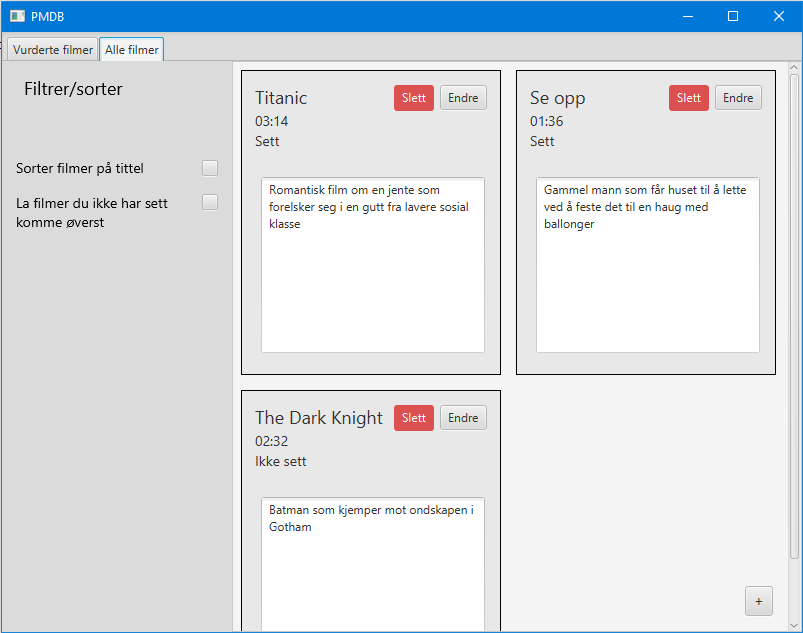
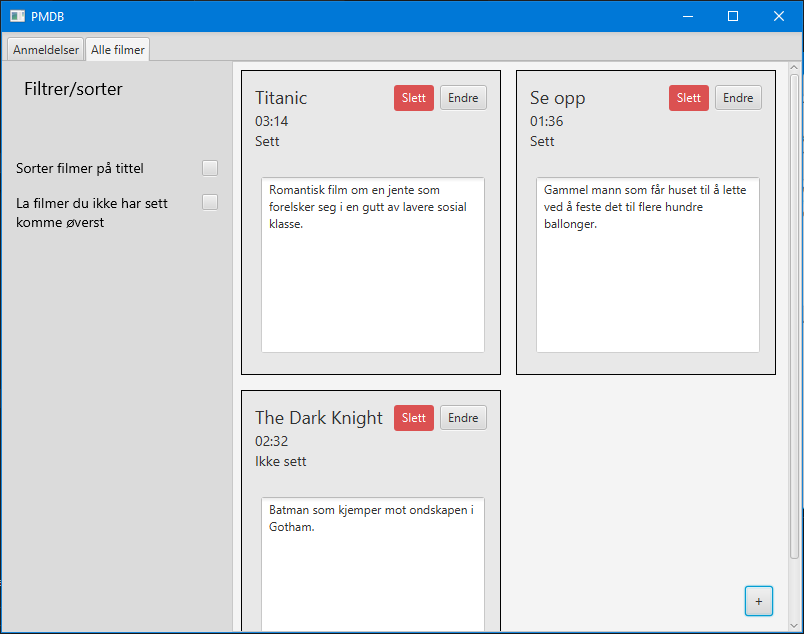
updated readme and release2 with images

diff --git a/pmdb/README.md b/pmdb/README.md
@@ -51,62 +51,54 @@ cd core
 mvn test
 ```
 
-## Prototype
-Under er det lagt ved bilder av prototypen:
+## Appen
 
-![Bildet ble ikke vist](images/allmovies.png)
-
+Under er flyten i appen beskrevet, med bilder og tilhørende tekst.
 
 Bilde 1:
 
-Dette er bildet en bruker får opp når personen åpner appen. Øverst ser man faner der man kan enten velge å se "Min liste", "Vurderte filmer" eller "Alle filmer". Hvis man trykker på "Vurderte filmer" kommer man til en side der man kan se filmene som man har sett og er vurdert. Trykker man på "Min liste" kommer man til siden som viser filmene man har lagt til, men ikke vurderte enda. Hvis man trykker "Alle filmer" kommer man til siden der man ser alle filmene, både de som er vurderte, og de som er i min liste.
+![Bildet ble ikke vist](images/allmovies.png)
 
-På hver side har man muligheten for å bestemme hvilke filmer man vil se basert på en sjanger. 
-
-Trykker man på "pluss (+)"-knappen nederst til høyre i bildet har man mulighet for å legge til en film i "Min liste" (se bilde 2).
-
-Trykker man på "Endre"-knappen på en film vil man få opp et bilde som gir brukeren muligheten for å endre på filmen (se bilde 2).
-
+Bilde 1 viser hvordan appen ser ut når den blir åpnet. Der kan man legge til filmer som vist på figuren. Man legger til en film ved å trykke på *(+) - knappen* nederst til høyre i appen. Da vil man få opp et bilde (se bilde 2 under) som gir muligheten for å opprette en film.
 
 Bilde 2:
 
-Bildet viser et utklipp av en enkelt film. Her har man mulighet for å endre på filmen. Man skal ha mulighet for å endre på tittelen, beskrivelsen av filmen, lengden på filmen, og om filmen er sett. Trykker man "Bekreft" vil endringene bli lagret.
+![Bildet ble ikke vist](images/movieImage.png)
 
-Hvis man trykker på "pluss (+)"-knappen på startskjermen (se bilde 1), vil man også kommet til skjermbildet bilde 2, men da er skjermbildet tomt. Man har muligheten for å lage et nytt filmobjekt, som vil bli lagt til i "Min liste" når man har fylt ut og trykket "Bekreft".
+Når man oppretter en film må man fylle ut feltene:
+- Tittel
+- Varighet
+- Om filmen er sett
+- Sammendrag av filmen
+
+Man har mulighet til å både *endre* på en eksisterende film, og *slette* en eksisterende film. 
+
+Hvis man trykker på *endre-knappen* kommer man til et bilde som er likt som når man trykker på *(+)-knappen* bare at feltene er fylt inn, og man har mulighet for å endre på de og lagre endringene.
+
+På venstre har man mulighet til å trykke på checkboxer som sorterer filmene basert på:
+- Tittel
+- At filmer som du ikke har sett skal komme først
+
+Disse sorteringene kan kombineres, slik at man både kan sortere på tittel og på om filmen er sett. Vi har gjort det slik at sorteringen på om filmen er sett trumfer sorteringen basert på tittel.
 
 
-Her vises hovedlogikken i plant uml
-```plantuml
-@startuml
-allow_mixing
-component core {
-    package pmdb.core{
-        package moviecomparators
-        interface IMovie
-        class Movie
-        Movie ..> IMovie
-        interface IReview
-        class Review
-        Review ..> IReview
-        class MovieList
-        MovieList --> "*" IMovie : movieList
-    }
-    package json{
-        package moviepersistance
-    }
-}
-component jackson{
+Bilde 3:
 
-}
-json ..> jackson
-component ui {
+![Bildet ble ikke vist](images/reviewedMovies.png)
 
-    }
-component javafx{
-    component fxml{
+Bilde 3 viser hvordan siden for *Anmeldelser* ser ut. Her har man muligheten til å anmelde en eksisterende film, som ligger i *Alle filmer* (siden du startet på). Man lager en anmeldelse ved å trykke på *(+) - knappen* nederst til høyre i bildet. Da vil man få opp bildet under.
 
-        }
-    }
-ui ..> javafx
-ui ..> fxml
-@enduml
+![Bildet ble ikke vist](images/reviewImage.png)
+
+Når man anmelder en film må man fylle ut feltene:
+- Film (en checkbox av filmobjekter man kan anmelde)
+- Når filmen er sett
+- Din rangering av filmen
+- En kommentar til filmen.
+
+Man har mulighet for å *endre* og *slette* en anmeldelse slik som man har med en film.
+
+
+### Arkitektur:
+
+![Bildet ble ikke vist](images/packageStructure.png)

diff --git a/docs/release2.md b/docs/release2.md
@@ -6,76 +6,19 @@ I release 1 var tanken at vi skulle ha både ha en klasse for *liste med anmelde
 
 Det var et *én-til-én* forhold mellom `Movie` og `Review`.    `ReviewList` hadde *én-til-mange* forhold med `Review`, det samme hadde `MovieList` med `Movie`. Se uml-diagram under. Vi benyttet oss av denne strukturen, fordi vi tenkte at det ville gjøre lagringen lettere. Tanken var at vi skulle ha to filer, en for lagring av `ReviewList` og en for lagring av `MovieList`. Dette matchet også hvordan ui-et ville være da vi skulle ha én fane for å vise *listen med anmeldelser* (`ReviewList`) og én for *listen med filmer* (`MovieList`).
 
-```plantuml
-@startuml
-allow_mixing
-class Movie
-class Review
-class ReviewList
-class MovieList
-Movie <--> "1:1" Review : review
-' Review <--> "1" Movie : movie
-ReviewList --> "*" Review : reviews
-MovieList --> "*" Movie : movies
-@enduml
-```
+![Bildet ble ikke vist](../pmdb/images/classdiagramRelease1.png)
+
 Slik så klassestrukturen ut i release 1
 
 ### Strukturen i release 2
 Vi fant ut at denne klassestrukturen var ugunstig, fordi vi så at det var overflødig å både ha `ReviewList` og `MovieList`. Vi tenkte også at det skulle være mulig for en bruker å lage flere *anmeldelser* til én *film*. Derfor endret vi klasseforholdet til at `Movie` hadde *en-til-mange* forhold med `Review`. Dermed kunne vi droppe `ReviewList` og istedenfor la `MovieList` inneholde mange `Movies` som igjen inneholder mange `Reviews`. Da kunne vi også lagre alt i en fil. Hvis vi vil nå ha tak i en `Review` trenger vi bare å finne den tilhørende filmen.
 
-```plantuml
-@startuml
-allow_mixing
-class MovieList
-class Movie
-class Review
+![Bildet ble ikke vist](../pmdb/images/classdiagramRelease2.png)
 
-MovieList --> "*" Movie : movies
-Movie --> "*" Review : reviews
-
-@enduml
-```
 Slik ser klassestrukturen ut nå.
 
-```plantuml
-@startuml
-allow_mixing
-component core {
-    package pmdb.core{
-        package moviecomparators
-        interface IMovie
-        class Movie
-        Movie ..> IMovie
-        interface IReview
-        class Review
-        Review ..> IReview
-        class MovieList
-        MovieList --> "*" IMovie : movieList
-    }
-    package json{
-        package moviepersistance
-    }
-}
-component jackson{
-
-}
-json ..> jackson
-component ui {
-
-    }
-component javafx{
-    component fxml{
-
-        }
-    }
-ui ..> javafx
-ui ..> fxml
-@enduml
-```
 ## Endringer i JSON-lagringen
 I release 1 hadde vi en mer automatisk lagring. Vi sendte inn hele javaobjektet vi ville lagre, og lot JSON gjøre jobben for oss. Vi fant ut at dette var en ugunstig måte å gjøre det på da vi ikke hadde noe kontroll over hvordan objektet ble lagret. Dette gjorde det også vanskelig å teste lagring. Vi byttet dermed til en mer manuell lagring der vi selv bestemte hva som skulle lagres, og hvilket JSON-objekt det skulle bli lagret som. Vi fikk dermed større kontroll over hvordan JSON-filen ville se ut.
 
 ## Dokumentmetafor
 Vi har valgt å bruke dokumentmetafor når vi lagrer. Når brukeren skal opprette et *film-objekt* må han trykke på lagre-knappen for at det skal vises på skjermen og lagret til fil. Det samme gjelder for når brukeren oppretter en *anmeldelse*. Brukeren har mulighet for å både ender på en eksisterende *film* eller *anmeldelse*. Endringene her i objektene vil først bli utrettet når man har trykket på lagre-knappen. Vi benyttet oss av dokumentmetafor, for at brukeren innsikt i hva som blir lagret, og ha større kontroll. For brukeren er det lett å forstå at *film-objektet* blir lagret når personen trykker på lagre-knappen og fanen lukkes. Brukeren kan også se at *filmen* dukker opp på skjermen etterpå.
-
